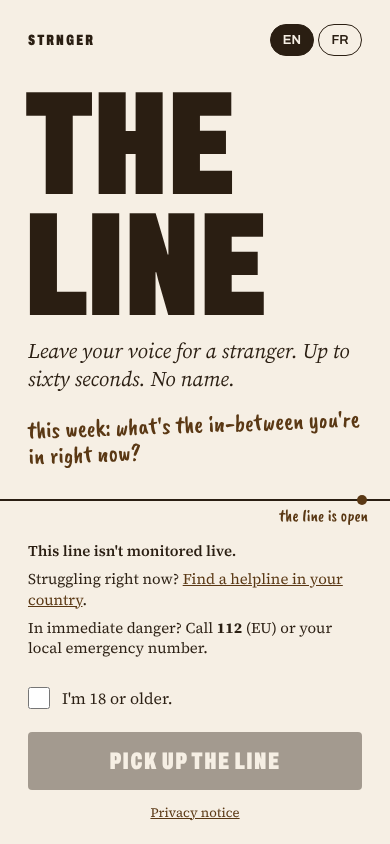
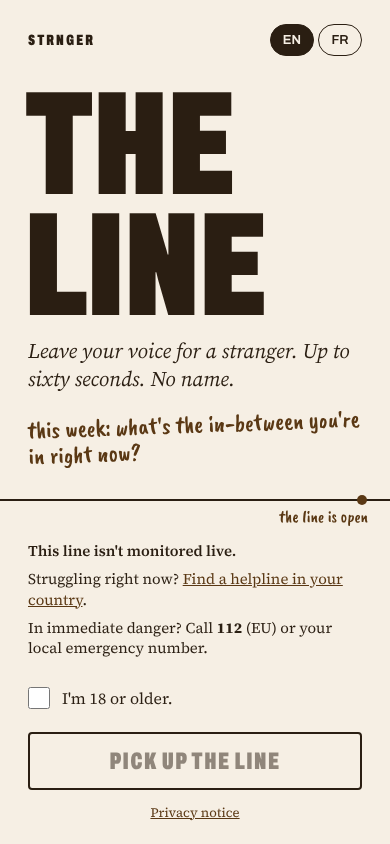
M0 review: locked button look, exact desktop sizes, CI
- Locked "Pick up the line": cream background, 2 px ink border, ink
  text at 50%; unlocked stays solid ink with cream text
- Desktop title is exactly 330 px at 1440 px; status label line height
  matches DGate; a test pins DGate's sizes and positions
- GitHub Actions: lint, type check, unit and browser tests on every PR
- Approved copy: "Language" / "Langue" and the French desktop hint
  (TODO marks removed)
- PROGRESS.md: npm audit added to the launch checklist; decisions log
  updated; screenshots regenerated, plus DGate rendered for comparison

Claude-Session: https://claude.ai/code/session_01B9GYr46E2oH94fcZbqb6fU

diff --git a/web/tests/e2e/gate.spec.ts b/web/tests/e2e/gate.spec.ts
@@ -21,6 +21,48 @@ test.describe("screen 01, the gate", () => {
     await expect(pickUp).toBeDisabled();
   });
 
+  test("locked and unlocked looks (decisions log)", async ({ page }) => {
+    await gotoReady(page, "/leave");
+    const pickUp = page.getByRole("button", { name: "PICK UP THE LINE" });
+    const ink = "rgb(42, 30, 18)";
+    const cream = "rgb(246, 239, 228)";
+
+    // Locked: cream background, 2 px ink border, ink text at 50% opacity.
+    await expect(pickUp).toHaveCSS("background-color", cream);
+    await expect(pickUp).toHaveCSS("border-top-width", "2px");
+    await expect(pickUp).toHaveCSS("border-top-color", ink);
+    await expect(pickUp).toHaveCSS("color", "rgba(42, 30, 18, 0.5)");
+    await expect(pickUp).toHaveCSS("opacity", "1");
+
+    // Unlocked: solid ink with cream text, as in the design.
+    await page.getByLabel("I'm 18 or older.").check();
+    await expect(pickUp).toHaveCSS("background-color", ink);
+    await expect(pickUp).toHaveCSS("color", cream);
+  });
+
+  test("desktop sizes and positions match DGate", async ({ page }, testInfo) => {
+    test.skip(testInfo.project.name !== "desktop", "DGate is the 1440 px design");
+    await gotoReady(page, "/leave");
+
+    // [font size, left, top, width, height] measured from design/DGate.dc.html at 1440×900.
+    const expected: [string, import("@playwright/test").Locator, string, number[]][] = [
+      ["title", page.getByRole("heading", { level: 1 }), "330px", [50, 88, -1, 264]],
+      ["tagline", page.getByText("Leave your voice for a stranger."), "30px", [64, 400, 560, -1]],
+      ["helpline", page.getByText("This line isn't monitored live."), "18px", [64, 610, 560, 25]],
+      ["checkbox label", page.locator("label", { hasText: "I'm 18 or older." }), "19px", [860, 610, 516, 44]],
+      ["button", page.getByRole("button", { name: "PICK UP THE LINE" }), "32px", [860, 672, 516, 72]],
+      ["hint", page.getByText("Works best in Chrome or Safari."), "14px", [860, 762, 516, -1]],
+    ];
+    for (const [name, locator, fontSize, [left, top, width, height]] of expected) {
+      await expect(locator, name).toHaveCSS("font-size", fontSize);
+      const box = (await locator.boundingBox())!;
+      expect(Math.round(box.x), `${name} left`).toBe(left);
+      expect(Math.round(box.y), `${name} top`).toBe(top);
+      if (width >= 0) expect(Math.round(box.width), `${name} width`).toBe(width);
+      if (height >= 0) expect(Math.round(box.height), `${name} height`).toBe(height);
+    }
+  });
+
   test("shows every approved English string", async ({ page }) => {
     await gotoReady(page, "/leave");
     const text = await page.locator("body").innerText();

diff --git a/web/components/Gate/Gate.module.css b/web/components/Gate/Gate.module.css
@@ -82,7 +82,7 @@
 
 .pickUp {
   height: 58px;
-  border: none;
+  border: 2px solid var(--ink);
   border-radius: 4px;
   background: var(--ink);
   color: var(--cream);
@@ -91,8 +91,10 @@
   cursor: pointer;
 }
 
+/* Locked until the 18+ box is ticked (decisions log). */
 .pickUp:disabled {
-  opacity: 0.4;
+  background: var(--cream);
+  color: var(--ink-50);
   cursor: not-allowed;
 }
 
@@ -127,7 +129,7 @@
 
   .title {
     margin: 22px 0 0 -14px;
-    font-size: min(330px, 22.9vw);
+    font-size: min(330px, calc(330 / 1440 * 100vw));
     line-height: 0.8;
     white-space: nowrap;
   }

diff --git a/web/styles/tokens.css b/web/styles/tokens.css
@@ -1,6 +1,7 @@
 /* Design tokens, spec 9.1. */
 :root {
   --ink: #2a1e12;
+  --ink-50: rgb(42 30 18 / 0.5); /* ink at 50% opacity: the locked "Pick up the line" text */
   --brown: #5a3814;
   --cream: #f6efe4;
   --soft-cream: #e8d9c2;

diff --git a/web/components/Line/Line.module.css b/web/components/Line/Line.module.css
@@ -33,7 +33,7 @@
   margin: 0;
   font-family: var(--font-hand);
   font-size: 17px;
-  line-height: 1.2;
+  line-height: normal;
   color: var(--brown);
   white-space: nowrap;
 }

diff --git a/PROGRESS.md b/PROGRESS.md
@@ -4,7 +4,7 @@ Milestones are in `The_Line_Build_Spec.md` section 16. How to run things is in `
 
 ## Where we are
 
-**M0 is done** (18 October 2026): screen 01 runs locally in English and French, and the tests run and pass.
+**M0 is done** (18 October 2026): screen 01 runs locally in English and French, and the tests run and pass. Review changes are in (locked button look, exact desktop sizes, CI).
 
 ## Done
 
@@ -19,10 +19,13 @@ Milestones are in `The_Line_Build_Spec.md` section 16. How to run things is in `
 - **Helpline block:** one shared component, in both languages.
 - **Screen 01 (gate)** on phone and desktop, matching `Main` and `DGate`. "Pick up the line" unlocks when "I'm 18 or older" is ticked and does nothing yet.
 - **Routes:** `/` redirects to `/leave` and keeps the query string. `?from=` tags are checked and kept in the browser session. `/privacy` is a placeholder.
-- **Tests:** 25 unit tests (Vitest) and 56 browser tests (Playwright, phone and desktop). They cover:
+- **CI:** `.github/workflows/ci.yml` runs lint, type check, unit tests and browser tests on every pull request, so it shows a pass/fail tick on GitHub.
+- **Tests:** 25 unit tests (Vitest) and 59 browser tests (Playwright, phone and desktop). They cover:
   - the gate button;
   - every approved EN and FR string (read straight from the spec's decisions log);
   - the line's position;
+  - the locked and unlocked button looks;
+  - desktop font sizes and positions, measured against `DGate`;
   - 44 px touch targets;
   - the language toggle and cookie;
   - the redirect and source tags;
@@ -43,10 +46,13 @@ Milestones are in `The_Line_Build_Spec.md` section 16. How to run things is in `
 
 ### Open items to check (not blocking)
 
-- `TODO(copy)`: the screen-reader label for the EN/FR toggle ("Language") isn't in the spec.
-- `TODO(copy-fr)`: drafts for Kenneth to check: "Langue" (toggle label) and the desktop hint "Ça marche mieux dans Chrome ou Safari. Ton micro ne sert que pendant que tu enregistres."
 - `TODO(legal)` / `TODO(legal-fr)`: the privacy notice.
-- `npm audit` reports 5 "high" advisories, all in ESLint's file-matching libraries (`braces` via `eslint-config-next`). They're development tools that never reach visitors. The only "fix" npm offers downgrades to Next.js 14 tooling, so it's left as is; recheck when `eslint-config-next` updates.
+
+## Launch checklist (additions)
+
+These join the spec's launch checklist (section 18).
+
+- [ ] **npm audit: recheck before launch.** It reports 5 "high" advisories, all in ESLint's file-matching libraries (`braces`, via `micromatch`, `fast-glob`, `@next/eslint-plugin-next` and `eslint-config-next`). They're development tools that never reach visitors. The only "fix" npm offers downgrades to Next.js 14 tooling, so it's left as is for now.
 
 ## Decisions
 
@@ -57,6 +63,8 @@ The full list is in the spec, section 17 (decisions log). In short:
 **French for later screens:** drafted with *tu*, each string marked `TODO(copy-fr)` for Kenneth to check.
 
 **Wording:** "No name." on the gate is allowed.
+
+**Approved after M0 review:** "Language" / "Langue" (toggle label) and the French desktop hint. The locked "Pick up the line" is cream with a 2 px ink border and ink text at 50%; unlocked is solid ink with cream text.
 
 **M0 build decisions (approved):**
 - "Pick up the line" unlocks when the box is ticked and does nothing yet; it is wired to screen 02 in M1.
@@ -87,6 +95,6 @@ The full list is in the spec, section 17 (decisions log). In short:
 - **The language toggle's buttons are 44 px tall for touch, with the 32 px pill drawn inside.** This follows the spec's 44 px rule while keeping the design's look.
 - **The language cookie** is `lang`: one year, `SameSite=Lax`, not readable by scripts.
 - **Source tags:** the first valid `?from=` tag in a browser session is kept, matching the spec's "from landing to submit".
-- **The disabled "Pick up the line" button** is shown at 40% opacity. The designs don't draw a disabled state.
+- **Desktop sizes** were measured against `DGate` with the real fonts loaded: every element matches within a pixel, and the title is exactly 330 px at 1440 px wide. A test now pins these sizes. (An early preview of the design had fallen back to a wider stand-in font, which made ours look smaller than it is.)
 - **Phone spacing below the line** is tightened by about 15 px, so the gate fits a 390×844 phone without scrolling. The real Source Serif 4 is slightly wider than the designs' stand-in font.
 - **Fonts come from the Fontsource npm packages**, which carry the same OFL font files as Google's font archive. GitHub downloads are blocked in the build session.

diff --git a/The_Line_Build_Spec.md b/The_Line_Build_Spec.md
@@ -447,6 +447,12 @@ Rulings made after Version 1. Where an entry differs from an earlier section or 
 - **A07:** the rate-limit rule is labelled "3 notes a day per connection". The limit stays IP-based (section 7).
 - **Alyssa** (named on A03) is the mental-health board lead. Her name is plain text on that screen.
 
+**18 October 2026 (M0 review)**
+
+- **Locked "Pick up the line":** cream background, 2 px ink border, ink text at 50% opacity. Unlocked: solid ink with cream text, as in the design. It stays a real disabled button.
+- **Approved copy:** the EN/FR toggle's screen-reader label is "Language" / "Langue". The desktop hint in French is "Ça marche mieux dans Chrome ou Safari. Ton micro ne sert que pendant que tu enregistres."
+- **CI:** GitHub Actions runs lint, type check, unit tests and browser tests on every pull request.
+
 ## 18. Launch checklist (not code; tracked here)
 
 - [ ] Classifier decided: Mistral with a DPA in place (free plan only with Mistral's written confirmation), or `CLASSIFIER_MODE=keywords` until then

diff --git a/CLAUDE.md b/CLAUDE.md
@@ -82,6 +82,8 @@ npm run format:check   # Prettier (npm run format to fix)
 
 First time on a new machine: `npx playwright install chromium`.
 
+GitHub Actions (`.github/workflows/ci.yml`) runs lint, type check, unit tests and browser tests on every pull request. Keep it green.
+
 ### In a Claude Code cloud session
 
 - Chromium is already installed, so don't run `playwright install`. Point Playwright at it:
